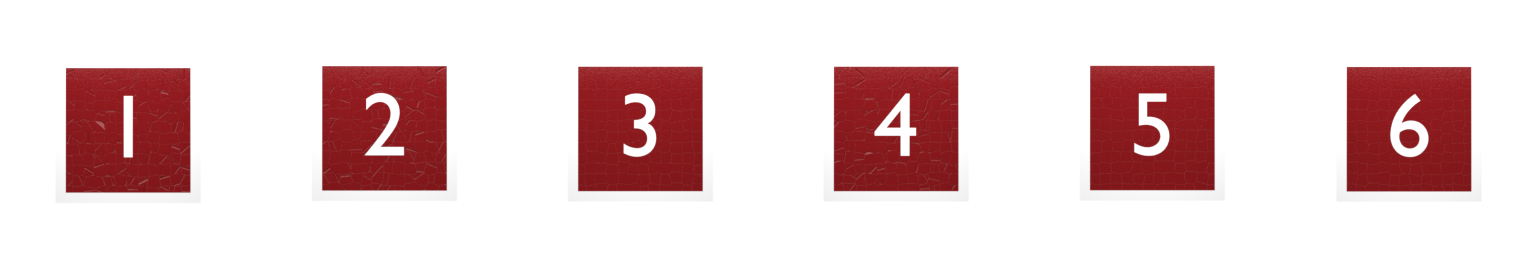
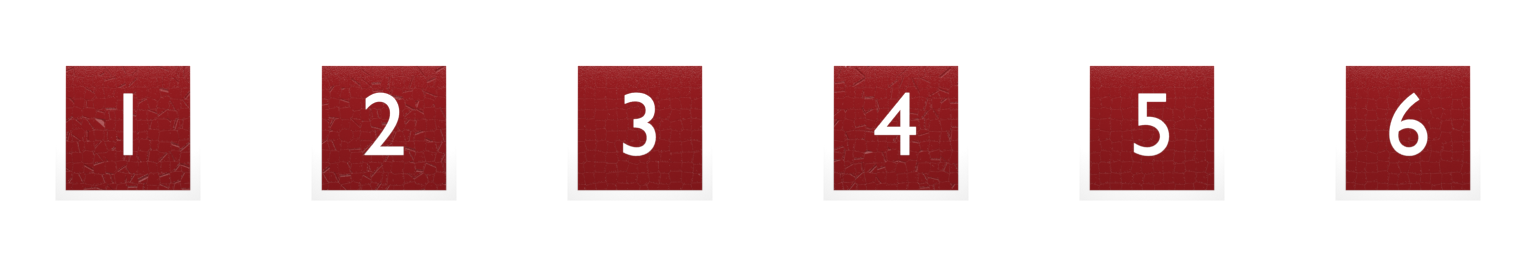
Skill-check dice: rolls come to rest face-on, blur fades with the spin, still result sheets with a glint, face cover over the cut
The community tumbles end at the d20's resting angle, oblique for a cube,
and the rig's wired blur held full strength to the last frame of the
double rolls, so the cut to the result sheet jumped. Each roll is now
re-aimed to ease into the rest pose the result sheets hold, the spin blur
is keyed per frame from how far the die turned, the result sheets are a
still pose with a glint sweep like BG3's d20_N, and a numeral-less face
cover fades over the cut so the number changes out of sight.

diff --git a/tools/dice/render_d6_sheets.py b/tools/dice/render_d6_sheets.py
@@ -17,10 +17,16 @@ then pack with tools/dice/pack_d6_sheets.py (tools/dice/build.sh does both).
 Into <frames_dir> it writes, as ####.png frames:
 
     roll_<double_roll_1|double_roll_2|single_roll>/  the community tumbles,
-        compositor blur on, result-agnostic, exactly as the d20 renders them.
-    settle_<n>/  SETTLE_FRAMES frames: the community d<k> wobble, moved onto
-        the cube so it comes to rest with face n square to the camera and its
-        numeral upright. The last frame is the landed still.
+        result-agnostic, re-aimed to come to rest face-on with REST_FACE up
+        front; the compositor's spin blur is keyed from each frame's turn,
+        so it fades out as the die slows.
+    settle_<n>/  SETTLE_FRAMES frames like BG3's d20_N: the die still, face n
+        square to the camera, numeral upright, a glint sweeping across. The
+        last frame is the landed still.
+    cover/  one frame: the die at rest with no numeral, BG3's faceCover,
+        which the popup lays over the cut from roll to result.
+
+Pass --only a,b to render just those (roll names, settle_<n>, cover).
 
 The .blend is never written back; nothing from it ships but these renders.
 """
@@ -60,8 +66,22 @@ FACES = {
     3: (Vector((0, -1, 0)), Vector((0, 0, 1))),
     4: (Vector((0, 1, 0)), Vector((0, 0, 1))),
 }
-## Which community settle wobble each face borrows (d1..d6, all distinct).
-WOBBLE_OF = {n: f"d{n}" for n in range(1, 7)}
+## Every roll comes to rest with this face up front; the popup's face cover
+## hides its numeral while the result's takes over.
+REST_FACE = 1
+## The roll eases the last of the way to rest over this many frames.
+DAMP_FRAMES = 6
+## Spin blur per degree the die turned that frame, and its cap (the rig's).
+BLUR_PER_DEGREE = 0.5
+BLUR_MAX_DEGREES = 20.0
+## The result sheet's glint: the frames it crosses the face between, its
+## height (above the camera's 7.2, so the camera never sees it), how far to
+## either side of centre it waits, its width and power.
+GLINT_FRAMES = (4, 13)
+GLINT_HEIGHT = 9.0
+GLINT_REACH = 4.0
+GLINT_WIDTH = 0.8
+GLINT_ENERGY = 400.0
 
 
 def face_frame(n: int):
@@ -160,38 +180,130 @@ def reset_deltas(obj) -> None:
     obj.delta_location = (0, 0, 0)
 
 
-def settle_action(dice_empty, scene, n: int) -> bpy.types.Action:
-    """The community wobble WOBBLE_OF[n], re-aimed at face n: every frame's
-    rotation is the wobble's own rotation relative to where it ends, applied
-    on top of face n's rest pose. Location and scale are kept as is."""
-    source = bpy.data.actions[WOBBLE_OF[n]]
-    dice_empty.animation_data.action = source
-    dice_empty.rotation_mode = "QUATERNION"
-    first, last = int(source.frame_range[0]), int(source.frame_range[1])
-    samples = []
-    for f in range(first, last + 1):
-        scene.frame_set(f)
-        samples.append((f, dice_empty.rotation_quaternion.copy(), dice_empty.location.copy(), dice_empty.scale.copy()))
-    rest_inv = samples[-1][1].normalized().inverted()
-    target = face_target(n)
+def key_pose(obj, frame: int, rotation: Quaternion, location: Vector) -> None:
+    obj.rotation_quaternion = rotation
+    obj.location = location
+    obj.scale = (1, 1, 1)
+    for path in ("rotation_quaternion", "location", "scale"):
+        obj.keyframe_insert(path, frame=frame)
 
-    action = bpy.data.actions.new(f"d6_{n}")
-    dice_empty.animation_data.action = action
-    prev = None
-    for f, q, loc, scale in samples:
-        out = (q.normalized() @ rest_inv) @ target
-        if prev is not None and prev.dot(out) < 0.0:
-            out.negate()
-        prev = out
-        dice_empty.rotation_quaternion = out
-        dice_empty.location = loc
-        dice_empty.scale = scale
-        for path in ("rotation_quaternion", "location", "scale"):
-            dice_empty.keyframe_insert(path, frame=f)
+
+def linear(action) -> None:
     for fc in action.fcurves:
         for k in fc.keyframe_points:
             k.interpolation = "LINEAR"
+
+
+def roll_action(dice_empty, scene, name: str, duration: int):
+    """The community tumble `name`, re-aimed so it comes to rest square to
+    the camera in the pose every result sheet holds (REST_FACE up front).
+
+    On the d20 a tumble can stop anywhere: an icosahedron's outline is near
+    enough the same from every side, so BG3 cuts from the roll's last frame
+    to the result sheet without a seam. A cube's outline is not, so every
+    frame's rotation is taken relative to where the tumble ends and applied
+    on top of the rest pose, and the last DAMP_FRAMES ease the rest of the
+    way in, so the die stops instead of freezing mid-turn.
+    Returns the action, each frame's location and each frame's spin in
+    degrees."""
+    source = bpy.data.actions[name]
+    dice_empty.animation_data.action = source
+    first = int(source.frame_range[0])
+    samples = []
+    for f in range(first, first + duration):
+        scene.frame_set(f)
+        loc, rot, _scale = dice_empty.matrix_world.decompose()
+        samples.append((loc.copy(), rot.normalized()))
+    end_inv = samples[-1][1].inverted()
+    rest = face_target(REST_FACE)
+
+    reset_deltas(dice_empty)
+    dice_empty.rotation_mode = "QUATERNION"
+    action = bpy.data.actions.new(f"d6_{name}")
+    dice_empty.animation_data.action = action
+    spins, locations, prev = [], [], None
+    for i, (loc, rot) in enumerate(samples):
+        q = (rot @ end_inv) @ rest
+        t = min(1.0, max(0.0, (i - (duration - 1 - DAMP_FRAMES)) / DAMP_FRAMES))
+        w = t * t * (3.0 - 2.0 * t)
+        q = q.slerp(rest, w)
+        loc = loc.lerp(Vector((0, 0, 0)), w)
+        if prev is not None and prev.dot(q) < 0.0:
+            q.negate()
+        spins.append(0.0 if prev is None else math.degrees(prev.rotation_difference(q).angle))
+        locations.append(loc)
+        prev = q
+        key_pose(dice_empty, first + i, q, loc)
+    linear(action)
+    if len(spins) > 1:
+        spins[0] = spins[1]
+    return action, locations, spins
+
+
+def blur_action(scene, name: str, first: int, locations, spins) -> None:
+    """Keys the rig's spin blur (the Directional Blur.001 that feeds the
+    Composite) frame by frame from the die's own motion: centred where the
+    die is on screen, BLUR_PER_DEGREE of spin per degree it turned that
+    frame, at most the rig's 20, so the smear dies away as the die stops.
+    The rig's own keys were set by hand for one roll and hold full blur to
+    the last frame of the others."""
+    tree = scene.node_tree
+    node = tree.nodes["Directional Blur.001"]
+    if tree.animation_data is None:
+        tree.animation_data_create()
+    action = bpy.data.actions.new(f"blur_{name}")
+    tree.animation_data.action = action
+    across = scene.camera.data.ortho_scale
+    for i, (loc, spin) in enumerate(zip(locations, spins)):
+        f = first + i
+        node.spin = math.radians(min(BLUR_MAX_DEGREES, spin * BLUR_PER_DEGREE))
+        node.center_x = 0.5 + loc.x / across
+        node.center_y = 0.5 + loc.y / across
+        node.distance = 0.0
+        node.zoom = 0.0
+        for prop in ("spin", "center_x", "center_y", "distance", "zoom"):
+            node.keyframe_insert(prop, frame=f)
+    linear(action)
+
+
+def still_action(dice_empty, n: int):
+    """BG3's result sheet: the die holds still at rest, face n square to the
+    camera, while the glint sweeps over it."""
+    reset_deltas(dice_empty)
+    dice_empty.rotation_mode = "QUATERNION"
+    action = bpy.data.actions.new(f"d6_{n}")
+    dice_empty.animation_data.action = action
+    key_pose(dice_empty, 1, face_target(n), Vector((0, 0, 0)))
+    key_pose(dice_empty, SETTLE_FRAMES, face_target(n), Vector((0, 0, 0)))
+    linear(action)
     return action
+
+
+def build_glint(scene):
+    """A long thin area light above the camera, out of its sight and seen
+    only in the face's reflection (no diffuse), so it adds a highlight bar
+    and nothing else. Keyed to cross the face diagonally between
+    GLINT_FRAMES and to sit out of reach before and after, so the first
+    frame matches the roll's last and the last is the clean landed still."""
+    data = bpy.data.lights.new("glint", "AREA")
+    data.shape = "RECTANGLE"
+    data.size = GLINT_WIDTH
+    data.size_y = 14.0
+    data.energy = GLINT_ENERGY
+    glint = bpy.data.objects.new("glint", data)
+    scene.collection.objects.link(glint)
+    glint.visible_diffuse = False
+    glint.visible_transmission = False
+    glint.visible_volume_scatter = False
+    glint.rotation_euler = (0, 0, math.radians(-45))
+    a, b = GLINT_FRAMES
+    across = Vector((1, -1, 0)).normalized()
+    for f, s in ((1, -GLINT_REACH), (a, -GLINT_REACH), (b, GLINT_REACH), (SETTLE_FRAMES, GLINT_REACH)):
+        glint.location = across * s + Vector((0, 0, GLINT_HEIGHT))
+        glint.keyframe_insert("location", frame=f)
+    linear(glint.animation_data.action)
+    glint.hide_render = True
+    return glint
 
 
 def use_gpu() -> None:
@@ -237,13 +349,32 @@ def main() -> None:
     scene.render.image_settings.color_mode = "RGBA"
     scene.render.image_settings.color_depth = "8"
 
-    settles = {n: settle_action(dice_empty, scene, n) for n in range(1, 7)}
-    for n, action in settles.items():
-        dice_empty.rotation_mode = "QUATERNION"
-        render(dice_empty, scene, action, os.path.join(out, f"settle_{n}"), SETTLE_FRAMES, False)
+    glint = build_glint(scene)
+    numerals = [o for o in dice_empty.children if o.name.startswith("num")]
+    only = argv[argv.index("--only") + 1].split(",") if "--only" in argv else None
+
+    def wanted(key: str) -> bool:
+        return only is None or key in only
+
     for name, duration in ROLLS.items():
-        dice_empty.rotation_mode = "QUATERNION"
-        render(dice_empty, scene, bpy.data.actions[name], os.path.join(out, f"roll_{name}"), duration, True)
+        if not wanted(name):
+            continue
+        action, locations, spins = roll_action(dice_empty, scene, name, duration)
+        blur_action(scene, name, int(action.frame_range[0]), locations, spins)
+        render(dice_empty, scene, action, os.path.join(out, f"roll_{name}"), duration, True)
+
+    glint.hide_render = False
+    for n in range(1, 7):
+        if wanted(f"settle_{n}"):
+            render(dice_empty, scene, still_action(dice_empty, n), os.path.join(out, f"settle_{n}"), SETTLE_FRAMES, False)
+    glint.hide_render = True
+
+    # The face cover: the die at rest with no numeral, laid over the cut
+    # from the roll's last frame to the result sheet.
+    if wanted("cover"):
+        for o in numerals:
+            o.hide_render = True
+        render(dice_empty, scene, still_action(dice_empty, REST_FACE), os.path.join(out, "cover"), 1, False)
     print("render_d6_sheets: frames written to", out)
 
 

diff --git a/tools/dice/pack_d6_sheets.py b/tools/dice/pack_d6_sheets.py
@@ -6,9 +6,10 @@ Writes into <out_dir> (assets/ui/dice/ in the project), every sheet a grid
 COLS wide, row-major, unused trailing cells empty:
 
     d6_roll_<name>.png   one community tumble (double_roll_1/2, single_roll)
-    d6_settle_<n>.png    the settle onto face n; its last frame is the landed
-                         still
+    d6_settle_<n>.png    the result sheet for face n: still, a glint across;
+                         its last frame is the landed still
     d6_landed.png        one row: faces 1..6 at rest, left to right
+    d6_face_cover.png    one frame: the die at rest, no numeral
 
 Godot's skill_check_dice_popup.gd reads these with AtlasTexture regions, so
 its FRAME_PX, COLS and frame counts must match the renders.
@@ -80,6 +81,8 @@ def main() -> None:
         grid(frames).save(os.path.join(out, f"d6_settle_{value}.png"), optimize=True)
         landed.append(frames[-1])
     grid(landed, 6).save(os.path.join(out, "d6_landed.png"), optimize=True)
+    cover = load_frames(os.path.join(src, "cover"))
+    grid(cover, 1).save(os.path.join(out, "d6_face_cover.png"), optimize=True)
     print("pack_d6_sheets: sheets written to", out)
 
 
